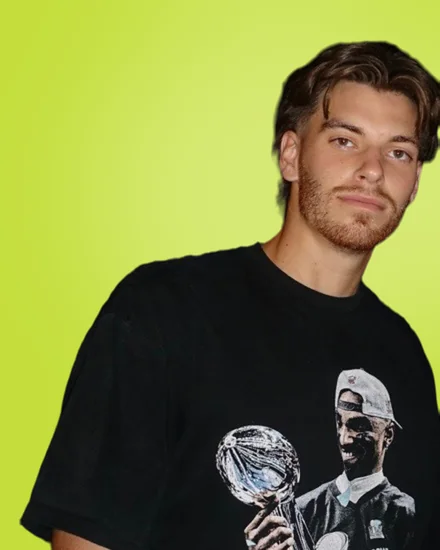
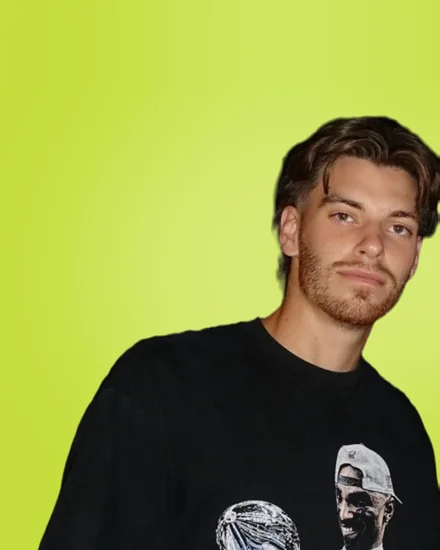
Matching header cards on About, Order and Contact; more headroom in Hunter's photo
Claude-Session: https://claude.ai/code/session_01QstvHgHWagbo2qcQJwXrt3

diff --git a/assets/css/styles.css b/assets/css/styles.css
@@ -88,6 +88,7 @@
 
 /* Surfaces that are always light (lime cards, juice colors, the polaroid) keep the light-mode ink */
 .hero__card,
+.page-card--lime,
 .cta-band,
 .flavors,
 .btn--lime,
@@ -2831,6 +2832,237 @@ html:not(.js) .cta-band .cta-band__scene {
 	padding-bottom: clamp(1.5rem, 3vw, 2.5rem);
 }
 
+/* About, Order and Contact headers: the same rounded card as Home (lime) and Juices (dark) */
+.page-card-hero {
+	padding-block: clamp(0.5rem, 1.5vw, 1rem) clamp(1.5rem, 3vw, 2.5rem);
+}
+
+.page-card {
+	position: relative;
+	display: grid;
+	grid-template-columns: minmax(0, 1.1fr) minmax(0, 0.9fr);
+	align-items: center;
+	gap: clamp(1.5rem, 4vw, 3rem);
+	min-height: clamp(400px, 38vw, 540px);
+	padding: clamp(2rem, 5vw, 4rem);
+	border-radius: var(--radius-xl);
+	overflow: hidden;
+	isolation: isolate;
+	container-type: inline-size;
+}
+
+.page-card--compact {
+	min-height: clamp(300px, 28vw, 400px);
+}
+
+.page-card--lime {
+	background:
+		radial-gradient(60% 70% at 78% 50%, color-mix(in srgb, #fff 38%, transparent), transparent 70%),
+		var(--lime);
+	color: var(--ink);
+}
+
+.page-card--night {
+	background:
+		radial-gradient(45% 80% at 85% 50%, rgba(196, 221, 59, 0.2), transparent 70%),
+		radial-gradient(60% 90% at 0% 0%, rgba(196, 221, 59, 0.12), transparent 60%),
+		var(--night);
+	box-shadow: inset 0 0 0 1px rgba(255, 255, 255, 0.06);
+	color: #fff;
+}
+
+.page-card__kicker {
+	font-size: 0.85rem;
+	font-weight: 700;
+	letter-spacing: 0.08em;
+	text-transform: uppercase;
+	opacity: 0.75;
+}
+
+.page-card--night .page-card__kicker {
+	color: var(--lime);
+	opacity: 1;
+}
+
+.page-card__title {
+	margin-top: 0.8rem;
+	font-size: min(6.4cqi, 4.6rem);
+	font-weight: 900;
+	font-stretch: 125%;
+	line-height: 0.86;
+	letter-spacing: -0.05em;
+	text-transform: uppercase;
+}
+
+.page-card__hl {
+	color: var(--lime);
+}
+
+.page-card__lede {
+	max-width: 28rem;
+	margin-top: 1.4rem;
+	font-size: clamp(1.05rem, 1.5vw, 1.2rem);
+	color: var(--ink-2);
+}
+
+.page-card--night .page-card__lede {
+	color: #cfc9bd;
+}
+
+.page-card__actions {
+	display: flex;
+	flex-wrap: wrap;
+	gap: 0.75rem;
+	margin-top: 1.75rem;
+}
+
+.page-card .portrait {
+	justify-self: center;
+}
+
+/* Order: the three steps as numbered tiles */
+.page-card__steps {
+	display: grid;
+	gap: 0.75rem;
+	margin: 0;
+	padding: 0;
+	list-style: none;
+}
+
+.page-card__steps li {
+	display: flex;
+	align-items: center;
+	gap: 0.9rem;
+	padding: 1rem 1.2rem;
+	border-radius: 1.1rem;
+	background: rgba(255, 255, 255, 0.06);
+	box-shadow: inset 0 0 0 1px rgba(255, 255, 255, 0.08);
+	font-size: 1.05rem;
+	font-weight: 700;
+}
+
+.page-card__steps span {
+	display: grid;
+	place-items: center;
+	flex: none;
+	width: 2.4rem;
+	height: 2.4rem;
+	border-radius: 0.8rem;
+	background: var(--lime);
+	color: #161513;
+	font-weight: 800;
+}
+
+/* Contact: one bottle with its splash, like the juice pages */
+.page-card__bottle {
+	position: relative;
+	display: grid;
+	place-items: center;
+	align-self: stretch;
+	min-height: 260px;
+}
+
+.page-card__splash,
+.page-card__img {
+	grid-area: 1 / 1;
+}
+
+.page-card__splash {
+	width: min(100%, 380px);
+	opacity: 0.9;
+	animation: page-card-spin 24s linear infinite;
+}
+
+.page-card__img {
+	height: min(78cqi, 340px);
+	width: auto;
+	rotate: -8deg;
+	filter: drop-shadow(0 24px 22px rgba(40, 30, 0, 0.35));
+	animation: page-card-bob 4s var(--ease-in-out) infinite alternate;
+}
+
+@keyframes page-card-spin {
+	to {
+		rotate: 360deg;
+	}
+}
+
+@keyframes page-card-bob {
+	to {
+		translate: 0 -10px;
+	}
+}
+
+/* Order and Contact have no loading to wait for, so their cards simply fade up */
+.page-card-hero:not(.about-hero) .page-card > * {
+	animation: hero-fade 0.8s var(--ease) both;
+}
+
+.page-card-hero:not(.about-hero) .page-card > :nth-child(2) {
+	animation-delay: 0.15s;
+}
+
+@media (prefers-reduced-motion: reduce) {
+	.page-card__splash,
+	.page-card__img,
+	.page-card-hero .page-card > * {
+		animation: none;
+	}
+}
+
+@media (max-width: 760px) {
+	.page-card {
+		grid-template-columns: minmax(0, 1fr);
+		min-height: 0;
+		padding: 2rem 1.5rem;
+		border-radius: var(--radius-lg);
+		text-align: center;
+	}
+
+	.page-card__title {
+		font-size: 12cqi;
+	}
+
+	.page-card__lede {
+		margin-inline: auto;
+	}
+
+	.page-card__actions {
+		justify-content: center;
+	}
+
+	.page-card__actions .btn {
+		flex: 1 1 0;
+	}
+
+	.page-card__steps {
+		grid-template-columns: repeat(3, minmax(0, 1fr));
+		gap: 0.5rem;
+	}
+
+	.page-card__steps li {
+		flex-direction: column;
+		gap: 0.5rem;
+		padding: 0.85rem 0.5rem;
+		font-size: 0.85rem;
+		line-height: 1.2;
+		text-align: center;
+	}
+
+	.page-card__bottle {
+		min-height: 0;
+		margin-bottom: -0.5rem;
+	}
+
+	.page-card__splash {
+		width: min(80%, 300px);
+	}
+
+	.page-card__img {
+		height: min(62cqi, 260px);
+	}
+}
+
 /* Menu page header: a dark card so it stands out, the lineup bursting out of the right side */
 .menu-hero {
 	padding-block: clamp(0.5rem, 1.5vw, 1rem) clamp(1.5rem, 3vw, 2.5rem);
@@ -3725,33 +3957,11 @@ html:not(.js) .cta-band .cta-band__scene {
 }
 
 /*=============== ABOUT ===============*/
-.about-hero {
-	position: relative;
-	padding-block: clamp(2rem, 6vw, 5rem) clamp(3rem, 7vw, 6rem);
-	overflow: hidden;
-	background:
-		linear-gradient(var(--paper), transparent 16%, transparent 72%, var(--paper)),
-		radial-gradient(55% 75% at 92% 30%, color-mix(in srgb, var(--lime) 50%, transparent) 0%, transparent 65%),
-		radial-gradient(45% 60% at 4% 78%, rgba(245, 158, 27, 0.22) 0%, transparent 65%),
-		var(--paper);
-}
-
-.about-hero__inner {
-	display: grid;
-	grid-template-columns: 1.15fr 0.85fr;
-	align-items: center;
-	gap: clamp(2rem, 6vw, 5rem);
-}
-
-.about-hero .page-hero__title {
-	font-size: clamp(3rem, 7.5vw, 6rem);
-}
-
 /* Entrance: the title rises line by line, the copy fades up, then the polaroid drops onto the page */
 .js .about-hero:not(.is-in) .hero__line > span,
-.js .about-hero:not(.is-in) .kicker,
-.js .about-hero:not(.is-in) .page-hero__lede,
-.js .about-hero:not(.is-in) .hero-actions,
+.js .about-hero:not(.is-in) .page-card__kicker,
+.js .about-hero:not(.is-in) .page-card__lede,
+.js .about-hero:not(.is-in) .page-card__actions,
 .js .about-hero:not(.is-in) .portrait {
 	opacity: 0;
 }
@@ -3764,17 +3974,17 @@ html:not(.js) .cta-band .cta-band__scene {
 	animation-delay: 0.08s;
 }
 
-.about-hero.is-in .kicker,
-.about-hero.is-in .page-hero__lede,
-.about-hero.is-in .hero-actions {
+.about-hero.is-in .page-card__kicker,
+.about-hero.is-in .page-card__lede,
+.about-hero.is-in .page-card__actions {
 	animation: hero-fade 0.8s var(--ease) both;
 }
 
-.about-hero.is-in .page-hero__lede {
+.about-hero.is-in .page-card__lede {
 	animation-delay: 0.3s;
 }
 
-.about-hero.is-in .hero-actions {
+.about-hero.is-in .page-card__actions {
 	animation-delay: 0.42s;
 }
 

diff --git a/about.html b/about.html
@@ -67,24 +67,26 @@
     </header>
     <!-- header:end -->
     <main id="main">
-        <section class="about-hero" data-about-hero>
-            <div class="container about-hero__inner">
-                <div>
-                    <p class="kicker">About SiponPressed</p>
-                    <h1 class="page-hero__title"><span class="hero__line"><span>Hey, I'm</span></span> <span class="hero__line"><span>Hunter</span></span></h1>
-                    <p class="page-hero__lede">SiponPressed is just me: one guy, a cold press and a fridge full of fruit. Every bottle you get was pressed and labeled by my hands, here in Philadelphia.</p>
-                    <div class="hero-actions">
-                        <a href="/juices" class="btn btn--ink btn--lg">Try the juices</a>
-                        <a href="/contact" class="btn btn--ghost btn--lg">Say hi</a>
+        <section class="page-card-hero about-hero" data-about-hero>
+            <div class="container">
+                <div class="page-card page-card--lime">
+                    <div class="page-card__copy">
+                        <p class="page-card__kicker">About SiponPressed</p>
+                        <h1 class="page-card__title"><span class="hero__line"><span>Hey, I'm</span></span> <span class="hero__line"><span>Hunter</span></span></h1>
+                        <p class="page-card__lede">SiponPressed is just me: one guy, a cold press and a fridge full of fruit. Every bottle you get was pressed and labeled by my hands, here in Philadelphia.</p>
+                        <div class="page-card__actions">
+                            <a href="/juices" class="btn btn--ink btn--lg">Try the juices</a>
+                            <a href="/contact" class="btn btn--ghost btn--lg">Say hi</a>
+                        </div>
                     </div>
+                    <figure class="portrait" data-portrait>
+                        <span class="portrait__tape" aria-hidden="true"></span>
+                        <div class="portrait__frame">
+                            <div class="portrait__photo" data-portrait-photo></div>
+                            <figcaption class="portrait__caption">Hunter &middot; Philadelphia</figcaption>
+                        </div>
+                    </figure>
                 </div>
-                <figure class="portrait" data-portrait>
-                    <span class="portrait__tape" aria-hidden="true"></span>
-                    <div class="portrait__frame">
-                        <div class="portrait__photo" data-portrait-photo></div>
-                        <figcaption class="portrait__caption">Hunter &middot; Philadelphia</figcaption>
-                    </div>
-                </figure>
             </div>
         </section>
 

diff --git a/contact.html b/contact.html
@@ -67,11 +67,19 @@
     </header>
     <!-- header:end -->
     <main id="main">
-        <section class="page-hero">
+        <section class="page-card-hero">
             <div class="container">
-                <p class="kicker">Contact</p>
-                <h1 class="page-hero__title">Let's talk juice</h1>
-                <p class="page-hero__lede">Questions about an order, a standing order for your studio or cafe, or an event? Send a note and Hunter will get back to you.</p>
+                <div class="page-card page-card--lime page-card--compact">
+                    <div class="page-card__copy">
+                        <p class="page-card__kicker">Contact</p>
+                        <h1 class="page-card__title"><span class="hero__line"><span>Let's talk</span></span> <span class="hero__line"><span>juice</span></span></h1>
+                        <p class="page-card__lede">Questions about an order, a standing order for your studio or cafe, or an event? Send a note and Hunter will get back to you.</p>
+                    </div>
+                    <div class="page-card__bottle" aria-hidden="true">
+                        <img src="/assets/img/splash/orange-sm.webp" alt="" class="page-card__splash" decoding="async">
+                        <img src="/assets/img/bottles/simply-orange-sm.webp" alt="" class="page-card__img" decoding="async">
+                    </div>
+                </div>
             </div>
         </section>
 

diff --git a/order.html b/order.html
@@ -71,10 +71,20 @@
     </header>
     <!-- header:end -->
     <main id="main">
-        <section class="page-hero page-hero--compact">
+        <section class="page-card-hero">
             <div class="container">
-                <p class="kicker">Order</p>
-                <h1 class="page-hero__title">Pressed fresh for you</h1>
+                <div class="page-card page-card--night page-card--compact">
+                    <div class="page-card__copy">
+                        <p class="page-card__kicker">Order</p>
+                        <h1 class="page-card__title"><span class="hero__line"><span>Pressed fresh</span></span> <span class="hero__line"><span class="page-card__hl">for you</span></span></h1>
+                        <p class="page-card__lede">Pick your bottles, choose pickup in Philly or Monday delivery, and pay securely in a minute.</p>
+                    </div>
+                    <ol class="page-card__steps" aria-label="How ordering works">
+                        <li><span>1</span>Pick your bottles</li>
+                        <li><span>2</span>Choose a day</li>
+                        <li><span>3</span>Pay and you're set</li>
+                    </ol>
+                </div>
             </div>
         </section>
 
